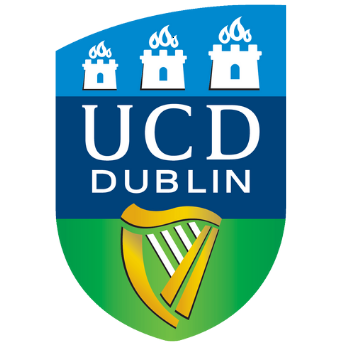
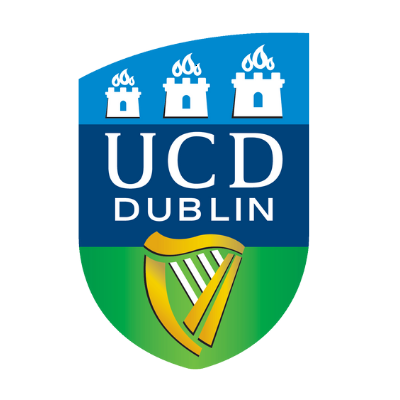
PJ - Updated Home Page

diff --git a/index.html b/index.html
@@ -104,32 +104,40 @@
     </div>
     <div class="container-fluid header p-2">
         <div class="container header p-2">
-            <div class="row g-0 align-items-center flex-column flex-lg-row">
-                <div class="col-lg-3 mt-4">
-                    <img class="img-fluid mx-auto d-block" src="./img/eco.png" alt="ECO">
-                </div>
-                <div class="col-lg-3 mt-4">
-                    <img class="img-fluid mx-auto d-block" src="./img/ASCO_Mob.png" alt="ASCO">
-                </div>
-                <div class="col-lg-3 mt-4">
-                    <img class="img-fluid mx-auto d-block" src="./img/ESO_HP.png" alt="ESO">
-                </div>
-                <div class="col-lg-3 mt-4">
-                    <img class="img-fluid mx-auto d-block" src="./img/nci-logo_mob.jpg" alt="NCI">
-                </div>
-            </div>
+            <table class="table table-responsive-stack" id="tableOne">
+                <tbody>
+                    <tr>
+                        <td class="col-lg-3 paddingTableLeft">
+        	                <img class="img-fluid mx-auto d-block" src="./img/eco_PP.png" alt="ECO">
+                        </td>
+                        <td class="col-lg-3 paddingTableLeft">
+	                        <img class="img-fluid mx-auto d-block" src="./img/ASCO_PP.png" alt="ASCO">
+                        </td>
+                        <td class="col-lg-3 paddingTableLeft">
+                        	<img class="img-fluid mx-auto d-block" src="./img/ESO_PP.png" alt="ESO">
+                        </td>
+                        <td class="col-lg-3 paddingTableLeft">
+                                <img class="img-fluid mx-auto d-block" src="./img/nci-logo_PP.png" alt="NIH">
+                        </td>
+                    </tr>
+                </tbody>
+            </table>
             <h4 class="text-center barlow mt-5 mb-5">Hosted By</h4>
-            <div class="row g-0 align-items-center flex-column flex-lg-row">
-                <div class="col-lg-3 offset-md-1">
-                    <img class="img-fluid mx-auto d-block" src="./img/AICRI_HP.png" alt="AICRI">
-                </div>
-                <div class="col-lg-3">
-                    <img class="img-fluid mx-auto d-block" src="./img/ARS_HP.png" alt="ARS">
-                </div>
-                <div class="col-lg-3">
-                    <img class="img-fluid mx-auto d-block" src="./img/nccp_logo_HP.png" alt="NCCP">
-                </div>
-            </div>
+            <table class="table table-responsive-stack" id="tableOne">
+                <tbody>
+                    <tr>
+                        <td class="col-lg-4 paddingTableLeft">
+        	                <img class="img-fluid mx-auto d-block" src="./img/AICRI_HP.jpg" alt="AICRI">
+                        </td>
+                        <td class="col-lg-4 paddingTableLeft">
+	                        <img class="img-fluid mx-auto d-block" src="./img/doh_HP.png" alt="ARS">
+                        </td>
+                        <td class="col-lg-4 paddingTableLeft">
+                        	<img class="img-fluid mx-auto d-block" src="./img/nccp_logo_HP.jpg" alt="NCCP">
+                        </td>
+                    </tr>
+                </tbody>
+            </table>
         </div>
     </div>
     <!-- Stakeholders End -->
@@ -210,38 +218,50 @@
     </div>
     <div class="container-fluid header p-2">
         <div class="container header p-2">
-            <div class="row g-0 align-items-center flex-column flex-lg-row">
-                <h2 class="barlow text-center">Gold Sponsorship</h2>
-                <div class="col-lg-6">
-                    <img class="img-fluid mx-auto d-block marginMobile" src="./img/Iqvia_HP.png" alt="IQVIA">
-                </div>
-                <div class="col-lg-6">
-                    <img class="img-fluid mx-auto d-block marginMobile" src="./img/Pfizer_HP.png" alt="Pfizer">
-                </div>
-            </div>
-            <div class="row g-0 align-items-center flex-column flex-lg-row mt-5">
-                <h3 class="barlow text-center">Silver Sponsorship</h3>
-                <div class="col-lg-4">
-                    <img class="img-fluid mx-auto d-block marginMobile" src="./img/Walls_hp.png" alt="Walls">
-                </div>
-                <div class="col-lg-4">
-                    <img class="img-fluid mx-auto d-block marginMobile" src="./img/msd_hp.jpg" alt="MSD">
-                </div>
-                <div class="col-lg-4">
-                    <img class="img-fluid mx-auto d-block marginMobile" src="./img/Amgen_HP.jpg" alt="Amgen">
-                </div>
-            </div>
-            <div class="row g-0 align-items-center flex-column flex-lg-row mt-5">
-                <div class="col-lg-4">
-                    <img class="img-fluid mx-auto d-block marginMobile" src="./img/bh_hp.png" alt="Blackrock Health">
-                </div>
-                <div class="col-lg-4">
-                    <img class="img-fluid mx-auto d-block marginMobile" src="./img/RoyalLondonIrish_HP.jpg" alt="RLI">
-                </div>
-                <div class="col-lg-4">
-                    <img class="img-fluid mx-auto d-block marginMobile" src="./img/dell_hp.jpg" alt="dell">
-                </div>
-            </div>
+            <h2 class="barlow text-center">Gold Sponsorship</h2>
+            <table class="table table-responsive-stack" id="tableOne">
+                <tbody>
+                    <tr>
+                        <td class="col-lg-4 paddingTableLeft">
+        	                <img class="img-fluid mx-auto d-block" src="./img/Iqvia_PP.png" alt="IQVIA">
+                        </td>
+                        <td class="col-lg-4 paddingTableLeft">
+	                        <img class="img-fluid mx-auto d-block" src="./img/Pfizer_SP.png" alt="Pfizer">
+                        </td>
+                    </tr>
+                </tbody>
+            </table>
+            <h3 class="barlow text-center">Silver Sponsorship</h3>
+            <table class="table table-responsive-stack" id="tableOne">
+                <tbody>
+                    <tr>
+                        <td class="col-lg-4 paddingTableLeft">
+                        	<img class="img-fluid mx-auto d-block" src="./img/Walls.png" alt="Walls">
+                        </td>
+                        <td class="col-lg-4 paddingTableLeft">
+        	                <img class="img-fluid mx-auto d-block" src="./img/msd.jpg" alt="MSD">
+                        </td>
+                        <td class="col-lg-4 paddingTableLeft">
+	                        <img class="img-fluid mx-auto d-block" src="./img/Amgen_logo.jpg" alt="Amgen">
+                        </td>
+                    </tr>
+                </tbody>
+            </table>
+            <table class="table table-responsive-stack" id="tableOne">
+                <tbody>
+                    <tr>
+                        <td class="col-lg-4 paddingTableLeft">
+                        	<img class="img-fluid mx-auto d-block" src="./img/bh.png" alt="Blackrock Health">
+                        </td>
+                        <td class="col-lg-4 paddingTableLeft">
+	                        <img class="img-fluid mx-auto d-block" src="./img/RoyalLondonIrish.png" alt="RLI">
+                        </td>
+                        <td class="col-lg-4 paddingTableLeft">
+                        	<img class="img-fluid mx-auto d-block" src="./img/dell.jpg" alt="dell">
+                        </td>
+                    </tr>
+                </tbody>
+            </table>
         </div>
     </div>
     <!-- Sponsors End -->
@@ -257,48 +277,60 @@
     <div class="container-fluid header p-2">
         <div class="container header p-2">
             <h2 class="barlow text-center">Gold Sponsorship</h2>
-            <div class="row g-0 align-items-center flex-column flex-lg-row">
-                <div class="col-lg-6 mt-2 mb-2">
-                    <img class="img-fluid d-block mx-auto" src="./img/Irish_Cancer_Society_HP.jpg" alt="ICS">
-                </div>
-                <div class="col-lg-6">
-                    <img class="img-fluid d-block mx-auto" src="./img/BCR_HP.png" alt="BCR">
-                </div>
-            </div>
-            <div class="row g-0 align-items-center flex-column flex-lg-row">
-                <h2 class="barlow text-center">Silver Sponsorship</h2>
-                <div class="col-lg-3 mb-2">
-                    <img class="img-fluid d-block mx-auto" src="./img/AICRIstart_HP.png" alt="AICRI Start">
-                </div>
-                <div class="col-lg-3">
-                    <img class="img-fluid d-block mx-auto" src="./img/eHealthHub_logo_HP.png" alt="eHealth">
-                </div>
-                <div class="col-lg-3 mt-3">
-                    <img class="img-fluid d-block mx-auto" src="./img/AICC_HP.jpg" alt="AICC">
-                </div>
-                <div class="col-lg-3 mt-3">
-                    <img class="img-fluid d-block mx-auto" src="./img/NSRP_Logo_HP.png" alt="NSRP">
-                </div>
-            </div>
-            <div class="row g-0 align-items-center flex-column flex-lg-row mt-5">
-                <div class="col-lg-6">
-                    <img class="img-fluid d-block mx-auto" src="./img/QueensRedLogo_HP.png" alt="QUEENS">
-                </div>
-                <div class="col-lg-6">
-                    <img class="img-fluid d-block mx-auto" src="./img/UCD Logo.jpg" alt="UCD">
-                </div>
-            </div>
-            <div class="row g-0 align-items-center flex-column flex-lg-row mt-5">
-                <div class="col-lg-4">
-                    <img class="img-fluid d-block mx-auto" src="./img/nd_hp.webp" alt="Notre Dame">
-                </div>
-                <div class="col-lg-4">
-                    <img class="img-fluid d-block mx-auto" src="./img/NCI.png" alt="INICC">
-                </div>
-                <div class="col-lg-4">
-                    <img class="img-fluid d-block mx-auto mt-3" src="./img/IASF_HP.png" alt="IASF">
-                </div>
-            </div>
+            <table class="table table-responsive-stack" id="tableOne">
+                <tbody>
+                    <tr>
+                        <td class="col-lg-3 paddingTableLeft">
+        	                <img class="img-fluid mx-auto d-block" src="./img/Irish_Cancer_Society.jpg" alt="ICS">
+                        </td>
+                        <td class="col-lg-3 paddingTableLeft">
+	                        <img class="img-fluid mx-auto d-block" src="./img/BCR.jpg" alt="BCR">
+                        </td>
+                    </tr>
+                </tbody>
+            </table>
+            <h3 class="barlow text-center">Silver Sponsorship</h3>
+            <table class="table table-responsive-stack" id="tableOne">
+                <tbody>
+                    <tr>
+                        <td class="col-lg-3 paddingTableLeft">
+                        	<img class="img-fluid mx-auto d-block" src="./img/AICRIstart.png" alt="AICRI Start">
+                        </td>
+                        <td class="col-lg-3 paddingTableLeft">
+        	                <img class="img-fluid mx-auto d-block" src="./img/eHealthHub_logo.png" alt="eHealth">
+                        </td>
+                        <td class="col-lg-3 paddingTableLeft">
+	                        <img class="img-fluid mx-auto d-block" src="./img/AICC.jpg" alt="AICC">
+                        </td>
+                        <td class="col-lg-3 paddingTableLeft">
+	                        <img class="img-fluid mx-auto d-block" src="./img/NSRP_SP.png" alt="NSRP">
+                        </td>
+                    </tr>
+                    <tr>
+                        <td class="col-lg-3 paddingTableLeft">
+                        </td>
+                        <td class="col-lg-3 paddingTableLeft">
+                        	<img class="img-fluid mx-auto d-block" src="./img/QueensRedLogo_HP.jpg" alt="QUB">
+                        </td>
+                        <td class="col-lg-3 paddingTableLeft">
+        	                <img class="img-fluid mx-auto d-block" src="./img/UCD_SP.png" alt="UCD">
+                        </td>
+                        <td class="col-lg-3 paddingTableLeft">
+                        </td>
+                    </tr>
+                    <tr>
+                        <td class="col-lg-3 paddingTableLeft">
+        	                <img class="img-fluid mx-auto d-block" src="./img/UND.png" alt="Notre Dame">
+                        </td>
+                        <td class="col-lg-3 paddingTableLeft">
+                        	<img class="img-fluid mx-auto d-block" src="./img/INICC.png" alt="INICC">
+                        </td>
+                        <td class="col-lg-3 paddingTableLeft">
+        	                <img class="img-fluid mx-auto d-block" src="./img/IASF_2.png" alt="IASF">
+                        </td>
+                    </tr>
+                </tbody>
+            </table>
         </div>
     </div>
     <!-- Sponsors End -->

diff --git a/sponsors.html b/sponsors.html
@@ -305,7 +305,7 @@
                         <td class="col-lg-3 paddingTableLeft">
                             <a href="https://intertradeireland.com/innovation/synergy/ireland-northern-ireland-national-cancer-institute-nci-cancer-consortium" target="_blank" class="barlow align-text-top text-center">
                                 <p class="barlow align-text-top"><strong>Silver Sponsor</strong></p>
-                                <img class="img-fluid mx-auto d-block" src="./img/NCI.png" alt="NCI">
+                                <img class="img-fluid mx-auto d-block" src="./img/INICC.png" alt="NCI">
                             </a>
                         </td>
                         <td class="col-lg-9 paddingTableRight">
